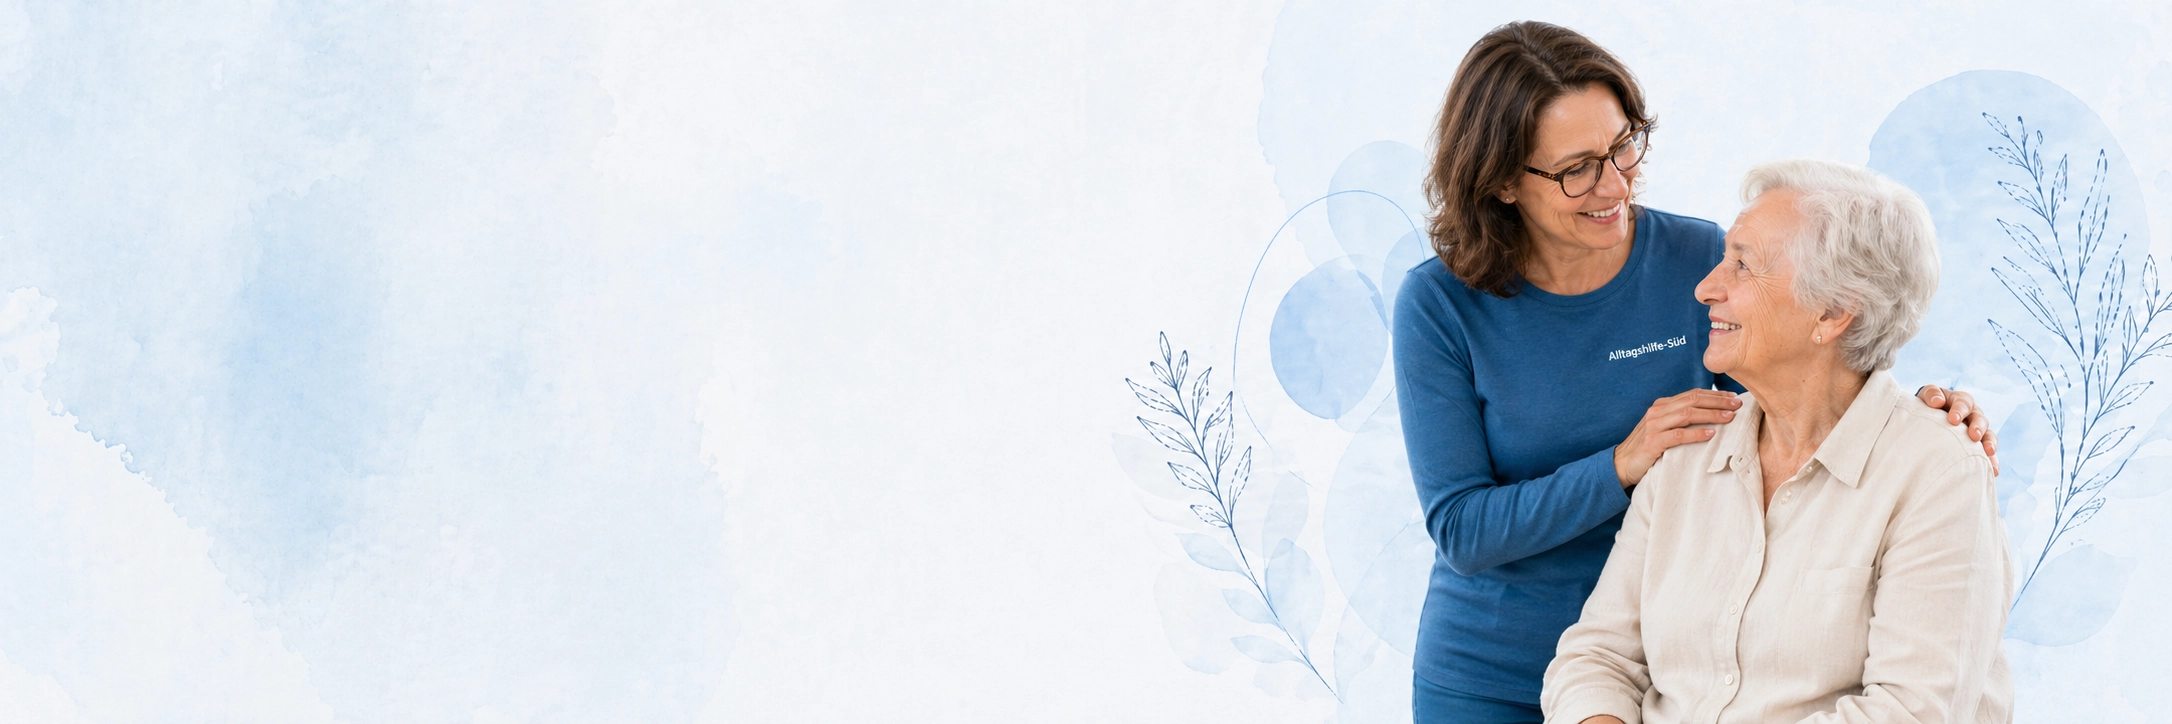
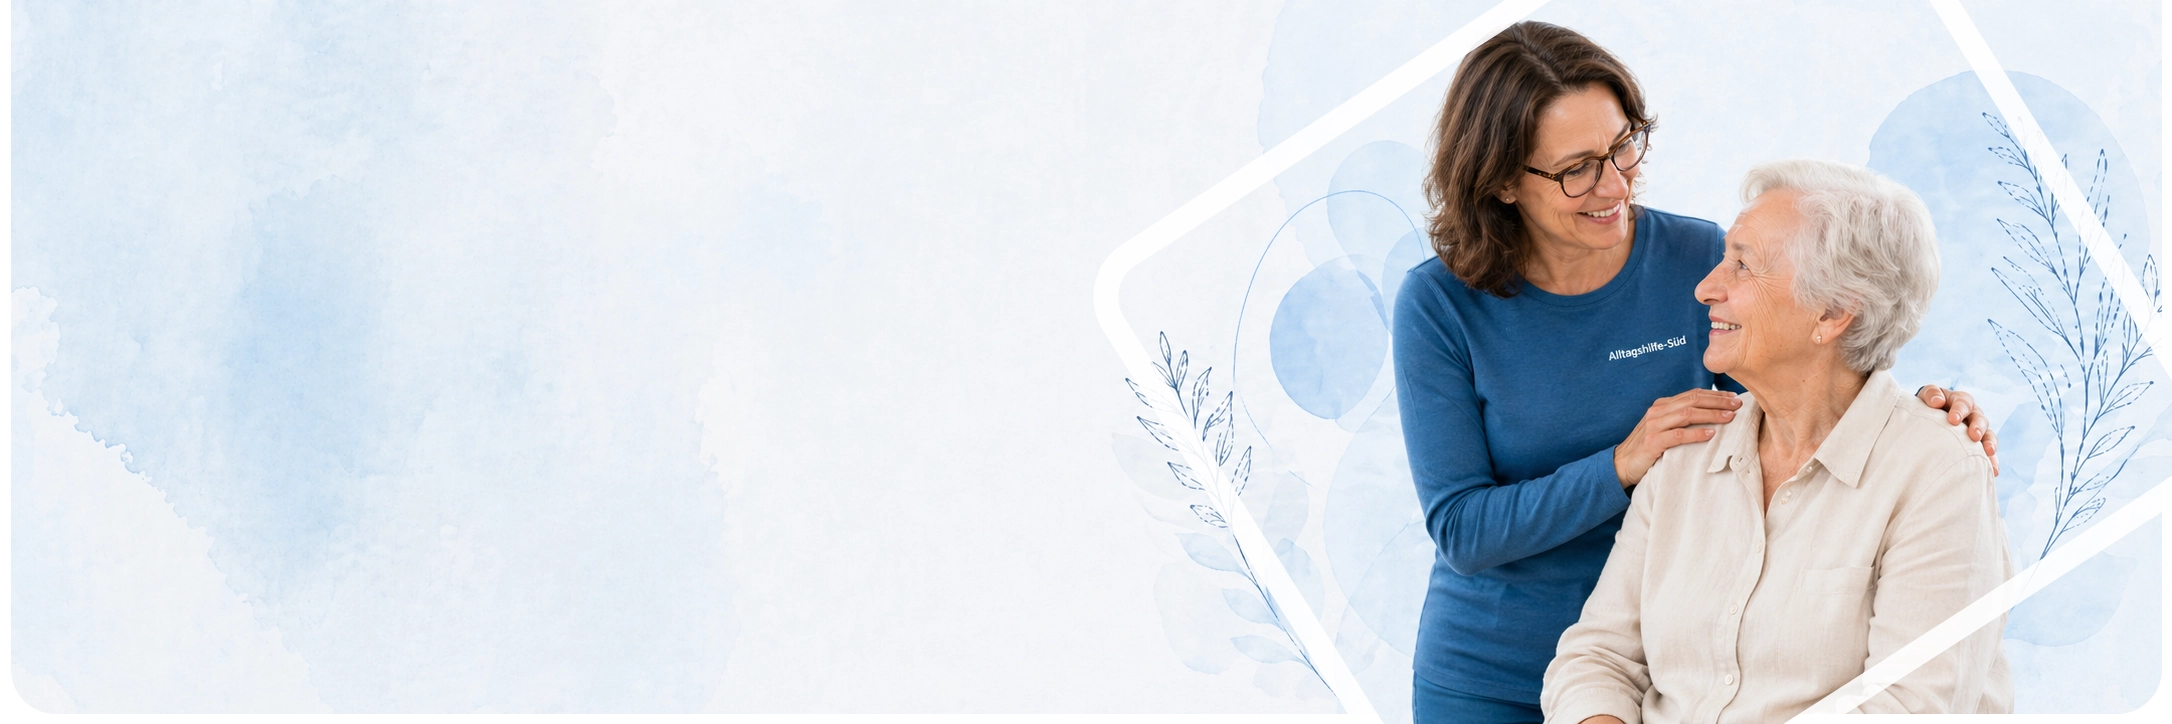
Startseite: Headerbild aktualisiert und Hero nochmals um 25% vergrößert
Made-with: Cursor

diff --git a/app/page.tsx b/app/page.tsx
@@ -73,9 +73,9 @@ export default function HomePage() {
       style={{ backgroundColor: "#fafbfc" }}
     >
       <section className="box-border w-full pt-0 pb-6 sm:pb-8 lg:pb-[clamp(1.5rem,2vw+0.75rem,2.5rem)]">
-        {/* Hero: seitlicher Abstand 5cm (md+), Bild ~25 % höher als zuvor */}
+        {/* Hero: seitlicher Abstand 5cm (md+), Bild zusätzlich ~25 % höher */}
         <div className="relative w-full px-3 sm:px-4 md:px-[5cm]" aria-label="Einstieg">
-          <div className="relative isolate min-h-[16.25rem] w-full overflow-hidden rounded-b-3xl bg-[#FFFCFA] sm:min-h-[19.375rem] md:min-h-[22.5rem] lg:min-h-[24.375rem]">
+          <div className="relative isolate min-h-[20.3125rem] w-full overflow-hidden rounded-b-3xl bg-[#FFFCFA] sm:min-h-[24.21875rem] md:min-h-[28.125rem] lg:min-h-[30.46875rem]">
             <div className="pointer-events-none absolute inset-0 z-0 overflow-hidden rounded-b-3xl" aria-hidden>
               <ProtectedRasterMedia className="relative block h-full w-full select-none [-webkit-user-drag:none]">
                 <Image
@@ -89,7 +89,7 @@ export default function HomePage() {
                 />
               </ProtectedRasterMedia>
             </div>
-            <div className="relative z-10 mx-auto flex w-full max-w-7xl flex-col justify-center px-4 pb-4 pt-8 sm:min-h-[19.375rem] sm:px-6 sm:pb-5 sm:pt-10 md:min-h-[22.5rem] lg:min-h-[24.375rem] lg:px-[var(--ahs-page-gutter)] lg:pb-6 lg:pt-12">
+            <div className="relative z-10 mx-auto flex w-full max-w-7xl flex-col justify-center px-4 pb-4 pt-8 sm:min-h-[24.21875rem] sm:px-6 sm:pb-5 sm:pt-10 md:min-h-[28.125rem] lg:min-h-[30.46875rem] lg:px-[var(--ahs-page-gutter)] lg:pb-6 lg:pt-12">
               <header className="max-w-lg text-left sm:max-w-xl lg:max-w-[min(42vw,clamp(22rem,32vw+8rem,30rem))] xl:max-w-[min(38vw,clamp(23rem,28vw+9rem,31rem))] 2xl:max-w-[min(34vw,clamp(24rem,26vw+10rem,32rem))]">
                 <h1
                   className="text-balance text-3xl font-extrabold leading-tight tracking-tight text-[#0F4F68] opacity-0 motion-reduce:opacity-100 animate-fade-in-up sm:text-4xl lg:text-[clamp(2rem,1.05rem+2.6vw,3rem)]"
